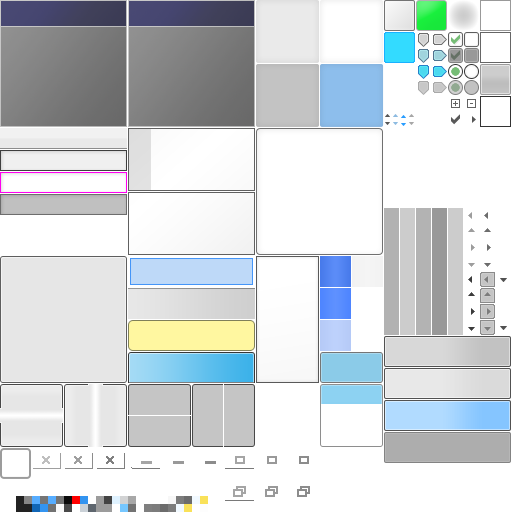
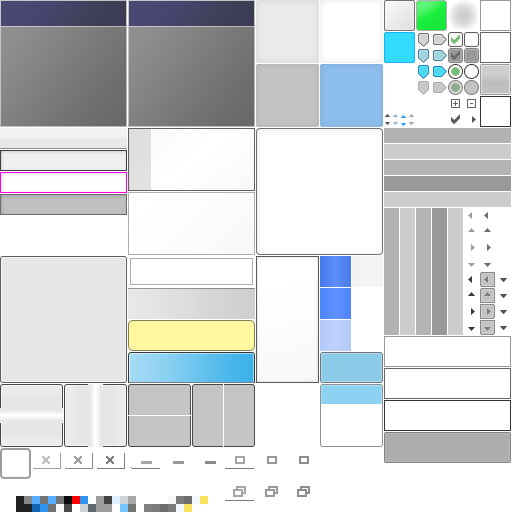
Added Scenario Menu

diff --git a/scenario_menu.cpp b/scenario_menu.cpp
@@ -1,0 +1,59 @@
+#include "scenario_menu.h"
+
+Scenario::Menu Scenario::Menu::mMenu;
+
+void Scenario::Menu::initialize(States::Manager* manager)
+{
+	canvas = manager->getCanvas();
+	scroll = new Gwen::Controls::ScrollControl(canvas);
+	scroll->Dock(Gwen::Pos::Fill);
+	scroll->SetAutoHideBars(false);
+	scroll->SetScroll(true, false);
+	scroll->GetHScroll()->onBarMoved.Add(this, &Scenario::Menu::scrollMove);
+
+	float ratio = al_get_display_height(manager->getDisplay())/1080.0f;
+
+	width = ratio * 5760.0f;
+	height = al_get_display_height(manager->getDisplay());
+	offset = al_get_display_width(manager->getDisplay());
+	position = 0;
+
+	padding = new Gwen::Controls::Base(scroll);
+	padding->SetSize(0,0);
+	padding->SetPos(width, 0);
+	padding->SetDisabled(true);
+
+	scenario1 = al_load_bitmap("Resources/scenario1.png");
+	scenario2 = al_load_bitmap("Resources/scenario2.png");
+	scenario3 = al_load_bitmap("Resources/scenario3.png");
+	scenarioButtons = al_load_bitmap("Resources/scenariobuttons.png");
+
+	button1 = new Gwen::Controls::Button(scroll);
+	button1->SetShouldDrawBackground(false);
+	button1->SetImage(al_create_sub_bitmap(scenarioButtons, 0, 0, 434, 206));
+	button1->SetSize(434*ratio, 206*ratio);
+	button1->SetPos(320*ratio, 540*ratio);
+	button1->SetCursor(Gwen::CursorType::Finger);
+
+	buttonBack = new Gwen::Controls::Button(canvas);
+	buttonBack->SetText(L"Back");
+	buttonBack->SetSize(300*ratio, 80*ratio);
+	buttonBack->SetPos(20*ratio, 960*ratio);
+	buttonBack->SetCursor(Gwen::CursorType::Finger);
+}
+
+void Scenario::Menu::scrollMove()
+{
+	position = (width-offset) * scroll->GetHScroll()->GetScrolledAmount();
+}
+
+void Scenario::Menu::handleEvents(ALLEGRO_EVENT &ev)
+{
+}
+
+void Scenario::Menu::render()
+{
+	al_draw_scaled_bitmap(scenario1, 0, 0, 1920, 1080, 0 - position, 0, width/3.0f, height, 0);
+	al_draw_scaled_bitmap(scenario2, 0, 0, 1920, 1080, width/3.0f - position, 0, width/3.0f, height, 0);
+	al_draw_scaled_bitmap(scenario3, 0, 0, 1920, 1080, width/3.0f*2.0f - position, 0, width/3.0f, height, 0);
+}

diff --git a/main.cpp b/main.cpp
@@ -1,8 +1,7 @@
 #include "global.h"
 #include "ctrldisplay.h"
 #include "ATX.h"
-#include "ATC.h"
-#include "ATC_flight_display.h"
+#include "scenario_menu.h"
 #include "states_manager.h"
 
 int main(int argc, char **argv)
@@ -94,7 +93,7 @@ int main(int argc, char **argv)
 	//EVENT INIT
 	event_queue = al_create_event_queue();
 	timer = al_create_timer(1.0 / 60);
-	bool done = false;
+	States::Manager::done = false;
 
 	//EVENT SOURCE
 	al_register_event_source(event_queue, al_get_timer_event_source(timer));
@@ -106,26 +105,24 @@ int main(int argc, char **argv)
 
 	//INIT
 	States::Manager::getInstance()->initialize(display, event_queue, base);
-	States::Manager::getInstance()->changeState(ATX::Main::getInstance());
-	//ATX::Main::getInstance()->initialize(al_get_display_width(display), al_get_display_height(display), base);
-	//ATC_flight_display::getInstance()->initialize(base);
+	//States::Manager::getInstance()->changeState(ATX::Main::getInstance());
+	States::Manager::getInstance()->changeState(Scenario::Menu::getInstance());
 
 	std::cout << "Loading Done" << std::endl;
 
 	//EVENT LOOP
-	while (!done)
+	while (!States::Manager::done)
 	{
 		ALLEGRO_EVENT ev;
 		al_wait_for_event(event_queue, &ev);
 
 		if (ev.type == ALLEGRO_EVENT_DISPLAY_CLOSE)
 		{
-			done = true;
+			States::Manager::done = true;
 		}
 		else
 		{
 			States::Manager::getInstance()->handleEvents(ev);
-			//ATC_flight_display::getInstance()->handleEvents(ev);
 		}
 
 		GwenInput.ProcessMessage(ev);
@@ -134,7 +131,6 @@ int main(int argc, char **argv)
 		if (al_is_event_queue_empty(event_queue))
 		{
 			States::Manager::getInstance()->render();
-			//ATC_flight_display::getInstance()->render();
 
 			frames ++;
 			if(al_current_time() - gameTime >= 1)
@@ -147,7 +143,7 @@ int main(int argc, char **argv)
 			al_draw_textf(font, al_map_rgb(255, 255, 0), 10, 680, 0, "FPS: %i", gameFPS);
 
 			al_flip_display();
-			al_clear_to_color(al_map_rgb(0, 0, 0));
+			al_clear_to_color(al_map_rgb(100, 100, 255));
 		}
 	}
 

diff --git a/scenario_menu.h b/scenario_menu.h
@@ -1,0 +1,46 @@
+#pragma once
+#include "global.h"
+#include "states_manager.h"
+
+namespace Scenario
+{
+	class Menu : public States::Base
+	{
+	protected:
+		Menu() {};
+
+	private:
+		static Menu mMenu;
+
+		Gwen::Controls::Base* canvas;
+		Gwen::Controls::ScrollControl* scroll;
+		void scrollMove();
+		Gwen::Controls::Button* button1;
+		Gwen::Controls::Button* buttonBack;
+		Gwen::Controls::Base* padding;
+
+		ALLEGRO_BITMAP* scenario1;
+		ALLEGRO_BITMAP* scenario2;
+		ALLEGRO_BITMAP* scenario3;
+		float width;
+		float height;
+		float offset;
+		float position;
+
+		ALLEGRO_BITMAP* scenarioButtons;
+
+	public:
+		static Menu* getInstance() {return &mMenu;};
+
+		void load(States::Manager* manager) {};
+		void initialize(States::Manager* manager);
+
+		void pause() {};
+		void resume() {};
+
+		void handleEvents(ALLEGRO_EVENT &ev);
+		void render();
+
+		void cleanup() {};
+	};
+};

diff --git a/ATX_menu.cpp b/ATX_menu.cpp
@@ -37,4 +37,10 @@ void ATX::Menu::initialize(States::Manager* manager)
 	button2->SetSize(200, 60);
 	button2->Dock(Gwen::Pos::Top);
 	button2->onToggle.Add(this, &ATX::Menu::button2Click);
+
+	button3 = new Gwen::Controls::Button(window);
+	button3->SetText(L"Quit");
+	button3->SetSize(200, 60);
+	button3->Dock(Gwen::Pos::Top);
+	button3->onPress.Add(this, &ATX::Menu::button3Click);
 }

diff --git a/ATX.cpp b/ATX.cpp
@@ -21,7 +21,7 @@ void ATX::Main::initialize(States::Manager* manager)
 
 	window = new Gwen::Controls::WindowControl(canvas);
 	window->MakeScroll();
-	window->GetScroll()->SetScroll(false, true);
+	window->GetScroll()->SetScroll(true, true);
 	window->GetScroll()->onResize.Add(this, &ATX::Main::windowResize);
 	window->SetTitle(L"Flight Information");
 	//window->MakeModal(false);

diff --git a/ATX_menu.h b/ATX_menu.h
@@ -21,6 +21,10 @@ namespace ATX
 		void button2Click() {
 			al_toggle_display_flag(al_get_current_display(), ALLEGRO_FULLSCREEN_WINDOW, button2->GetToggleState());
 		};
+		Gwen::Controls::Button* button3;
+		void button3Click() {
+			States::Manager::done = true;
+		};
 
 	public:
 		static Menu* getInstance() {return &mMenu;};

diff --git a/states_manager.h b/states_manager.h
@@ -20,6 +20,7 @@ namespace States
 		Gwen::Controls::Base* canvas;
 
 	public:
+		static bool done;
 		static Manager* getInstance() {return &mManager;};
 		void initialize(ALLEGRO_DISPLAY* pDisplay, ALLEGRO_EVENT_QUEUE* pEvent_queue, Gwen::Controls::Base* pCanvas);
 

diff --git a/states_manager.cpp b/states_manager.cpp
@@ -1,6 +1,7 @@
 #include "states_manager.h"
 
 States::Manager States::Manager::mManager;
+bool States::Manager::done;
 
 void States::Manager::initialize(ALLEGRO_DISPLAY* pDisplay, ALLEGRO_EVENT_QUEUE* pEvent_queue, Gwen::Controls::Base* pCanvas)
 {
